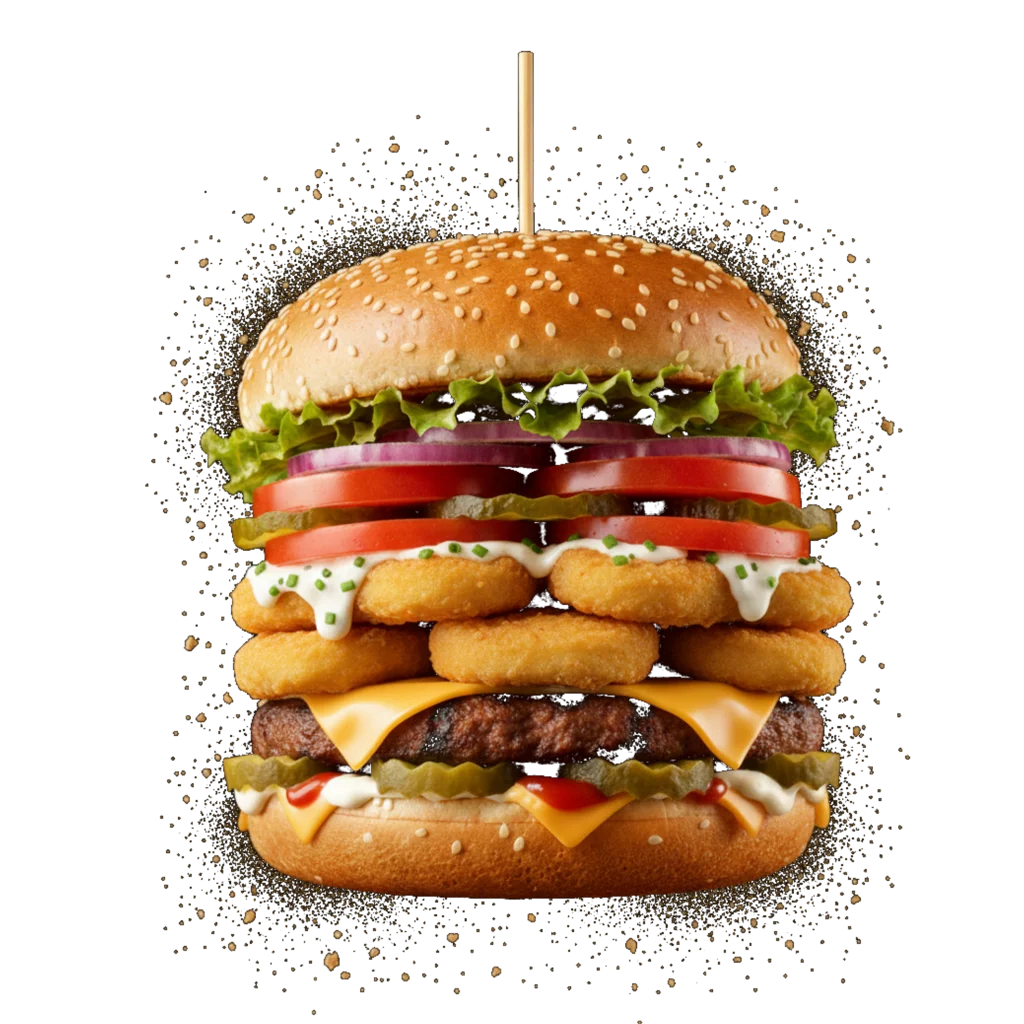
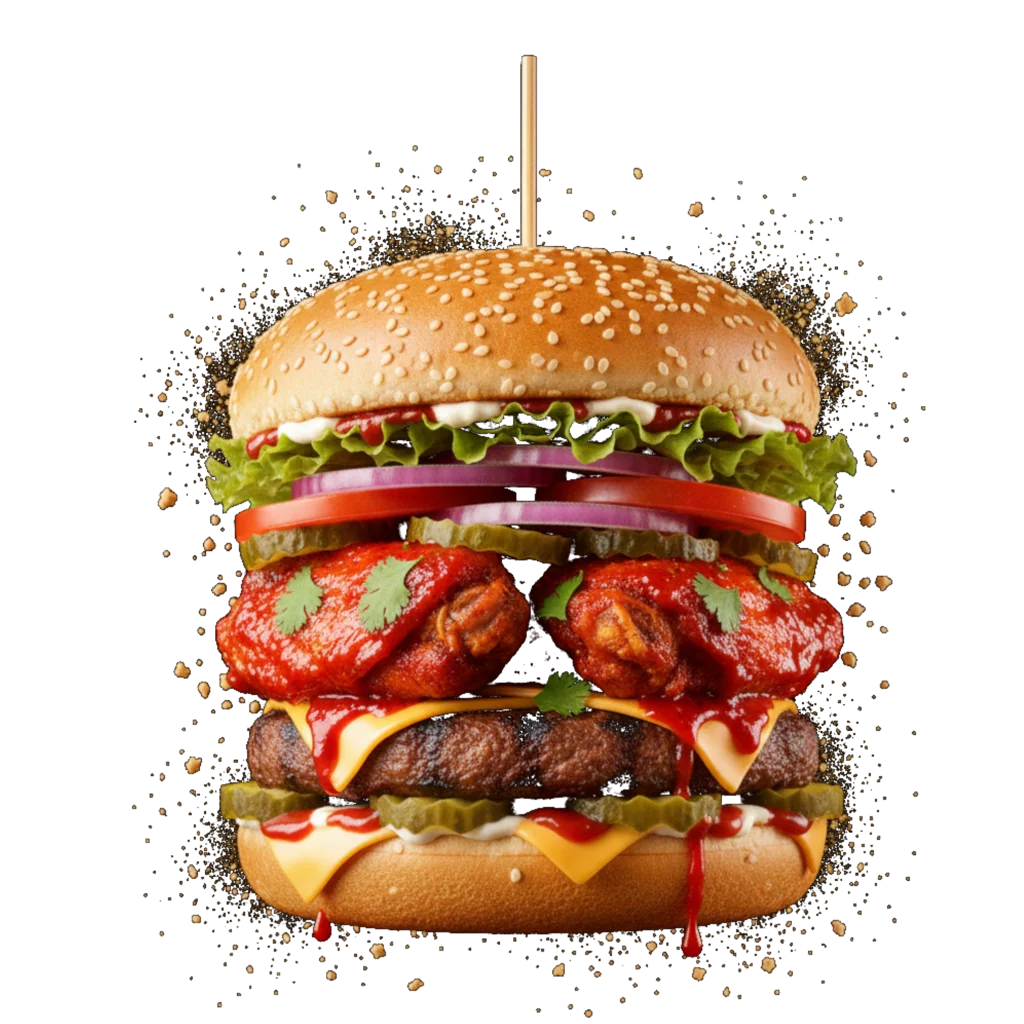
project completed

diff --git a/code/index.html b/code/index.html
@@ -35,17 +35,17 @@
                               <h1>the unlimited <br> burger heaven</h1>
                               <img id="buger" src="img/img5.webp" alt="">
                               <div id="order_button_container">
-                                        <a href=""><button>order</button></a>
-                                        <a href=""><button>view more</button></a>
+                                        <a href="./orderind page/BBQ Chicken Burger/index.html"><button>order</button></a>
+                                        <a href="./Ordering meanu/index.html"><button>view more</button></a>
                               </div>
                               <div id="ordermenu_container">
-                                        <div class="ordermenu_child"><a href=""><img class="ordermenu_img"
+                                        <div class="ordermenu_child"><a href="https://buger-shop-six.vercel.app/orderind%20page/Cheese%20Burst%20Burger/index.html"><img class="ordermenu_img"
                                                                       src="img/img1.webp" alt=""></a></div>
-                                        <div class="ordermenu_child"><a href=""><img class="ordermenu_img"
+                                        <div class="ordermenu_child"><a href="https://buger-shop-six.vercel.app/orderind%20page/Chicken%20Nuggets/index.html"><img class="ordermenu_img"
                                                                       src="img/img3.webp" alt=""></a></div>
-                                        <div class="ordermenu_child"><a href=""><img class="ordermenu_img"
+                                        <div class="ordermenu_child"><a href="https://buger-shop-six.vercel.app/orderind%20page/BBQ%20Chicken%20Burger/index.html"><img class="ordermenu_img"
                                                                       src="img/img2.webp" alt=""></a></div>
-                                        <div class="ordermenu_child"><a href=""><img class="ordermenu_img"
+                                        <div class="ordermenu_child"><a href="https://buger-shop-six.vercel.app/orderind%20page/Cheese%20Fries/index.html"><img class="ordermenu_img"
                                                                       src="img/img4.webp" alt=""></a></div>
 
                               </div>

diff --git a/code/Create acc page/style.css b/code/Create acc page/style.css
@@ -128,7 +128,7 @@ span {
           outline: none;
           background: #1a1a1a;
           padding: 20px;
-          color: #f98322;
+          color: white;
           font-size: 18px;
 
 }
@@ -148,12 +148,12 @@ span {
           width: 100%;
           border: none;
           outline: none;
-          color: #f98322;
+          color: white;
           padding: 20px;
           border-radius: 12px;
           background: #1a1a1a;
           font-size: 18px;
-
+                
 }
 
 .passBtn {

diff --git a/code/login page/style.css b/code/login page/style.css
@@ -202,7 +202,7 @@ input::placeholder {
 
 
 #DivertLinkContainer {
-          margin-top: 10px;
+          margin-top: 20px;
           height: 20px;
           display: flex;
           align-items: center;
